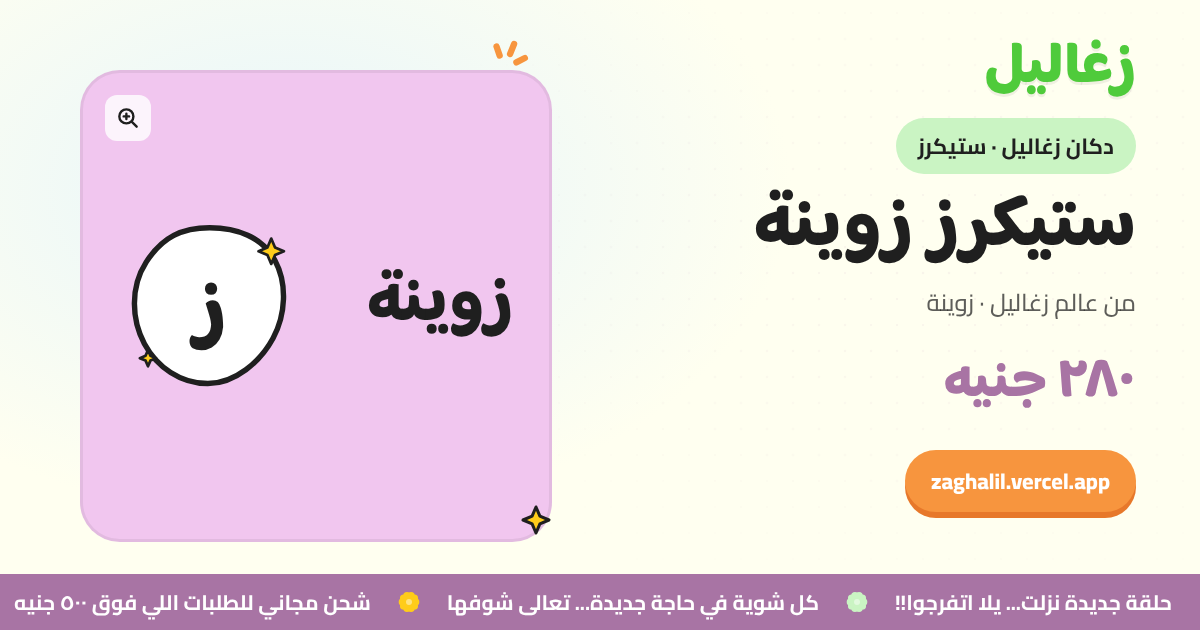
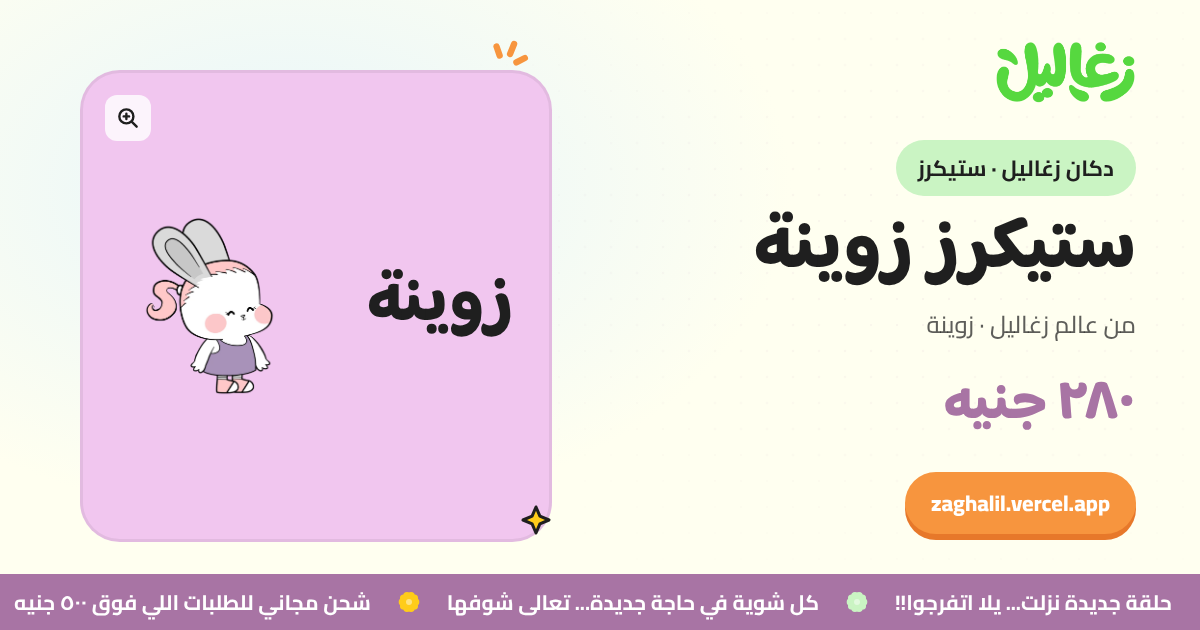
Timeline markers match the design; bunny no longer covers text on phones; OG images use the official art
- Milestone markers are the design's rounded 9-point stars in its colours,
  with the dashed spine running through their centres
- On phones and tablets the sitting bunny gets her own strip under the list
- OG previews: official hero illustration, cast lineup, sitting bunny, shop
  art and sticker photos; shop art trimmed tight

Changed region(s): [[0.6167, 0.0603, 0.9558, 0.5429], [0.74, 0.573, 0.9558, 0.8746], [0.0925, 0.3317, 0.2467, 0.6333]]

diff --git a/src/components/sections/Story.tsx b/src/components/sections/Story.tsx
@@ -5,7 +5,30 @@ import { useEffect, useRef, useState } from "react";
 import { useGo } from "@/lib/nav";
 import { story } from "@/content/site";
 import { toArabicDigits } from "@/lib/format";
-import { Button, CharacterArt, Flower, Pill, Reveal, SplitHeading } from "@/components/ui/primitives";
+import { Button, CharacterArt, Pill, Reveal, SplitHeading } from "@/components/ui/primitives";
+
+/**
+ * The design's milestone marker: Figma star (9 points, inner radius 43.6%) with its corners fully
+ * rounded — every corner is an arc tangent to the edges at their midpoints, exactly as Figma clamps it.
+ */
+const BADGE_PATH = "M23.136 7.379A1.923 1.923 0 0 1 26.864 7.379L26.864 7.379A5.168 5.168 0 0 0 34.899 10.303L34.899 10.303A1.923 1.923 0 0 1 37.755 12.699L37.755 12.699A5.168 5.168 0 0 0 42.030 20.104L42.030 20.104A1.923 1.923 0 0 1 42.677 23.776L42.677 23.776A5.168 5.168 0 0 0 41.193 32.196L41.193 32.196A1.923 1.923 0 0 1 39.329 35.425L39.329 35.425A5.168 5.168 0 0 0 32.778 40.921L32.778 40.921A1.923 1.923 0 0 1 29.275 42.196L29.275 42.196A5.168 5.168 0 0 0 20.725 42.196L20.725 42.196A1.923 1.923 0 0 1 17.222 40.921L17.222 40.921A5.168 5.168 0 0 0 10.671 35.425L10.671 35.425A1.923 1.923 0 0 1 8.807 32.196L8.807 32.196A5.168 5.168 0 0 0 7.323 23.776L7.323 23.776A1.923 1.923 0 0 1 7.970 20.104L7.970 20.104A5.168 5.168 0 0 0 12.245 12.699L12.245 12.699A1.923 1.923 0 0 1 15.101 10.303L15.101 10.303A5.168 5.168 0 0 0 23.136 7.379Z";
+
+function Badge({ color, className }: { color: string; className?: string }) {
+  return (
+    <svg viewBox="6.1 6.1 37.8 37.8" className={className} aria-hidden>
+      <path d={BADGE_PATH} fill={color} />
+    </svg>
+  );
+}
+
+/* Shared geometry so the dashed spine always runs through the marker centres. */
+const ROW = "gap-4 sm:gap-6";
+const YEAR_W = "w-[4.2rem] sm:w-[5rem]";
+const MARK = "h-9 w-9 sm:h-11 sm:w-11";
+// right offset of a marker centre = year width + gap + half the marker
+const SPINE_RIGHT = "right-[calc(4.2rem+1rem+1.125rem-1px)] sm:right-[calc(5rem+1.5rem+1.375rem-1px)]";
+const SPINE_TOP = "top-[calc(0.25rem+1.125rem)] sm:top-[calc(0.25rem+1.375rem)]";
+const DASH = "bg-[repeating-linear-gradient(to_bottom,currentColor_0_10px,transparent_10px_20px)]";
 
 export function Story() {
   const go = useGo();
@@ -72,25 +95,29 @@ function MilestoneRow({ m, progress, i, count }: { m: Milestone; progress: Motio
   const t = useTransform(progress, [start, end], [0, 1], { clamp: true });
   const yearX = useTransform(t, [0, 0.6], [60, 0]);
   const yearOpacity = useTransform(t, [0, 0.45], [0, 1]);
-  const flowerScale = useTransform(t, [0.15, 0.55, 0.75], [0, 1.25, 1]);
-  const flowerRotate = useTransform(t, [0.15, 0.75], [-160, 0]);
+  const markScale = useTransform(t, [0.15, 0.55, 0.75], [0, 1.2, 1]);
+  const markRotate = useTransform(t, [0.15, 0.75], [-120, 0]);
+  // the dashed segment down to the next marker draws itself as the next milestone arrives
+  const seg = useTransform(progress, [start + span * 0.6, start + span * 1.2], [0, 1], { clamp: true });
+  const last = i === count - 1;
   const textY = useTransform(t, [0.3, 1], [24, 0]);
   const textOpacity = useTransform(t, [0.3, 0.9], [0, 1]);
   const blur = useTransform(t, [0.3, 0.9], ["blur(6px)", "blur(0px)"]);
-  const glow = useTransform(t, [0.5, 0.8, 1], [0, 1, 0.35]);
 
   return (
-    <li className="relative flex items-start gap-4 sm:gap-6">
-      <motion.span style={{ x: yearX, opacity: yearOpacity }} className="font-display w-[4.2rem] shrink-0 text-[2.1rem] leading-none text-white sm:w-[5rem] sm:text-[2.6rem]">
+    <li className={`relative flex items-start ${ROW}`}>
+      {!last && (
+        <>
+          {/* segment from this marker to the next one (li height + the 3rem list gap) */}
+          <span aria-hidden className={`absolute ${SPINE_RIGHT} ${SPINE_TOP} h-[calc(100%+3rem)] w-[2px] text-white/25 ${DASH}`} />
+          <motion.span aria-hidden style={{ scaleY: seg }} className={`absolute ${SPINE_RIGHT} ${SPINE_TOP} h-[calc(100%+3rem)] w-[2px] origin-top text-white ${DASH}`} />
+        </>
+      )}
+      <motion.span style={{ x: yearX, opacity: yearOpacity }} className={`font-display ${YEAR_W} shrink-0 text-[2.1rem] leading-none text-white sm:text-[2.6rem]`}>
         {toArabicDigits(m.year)}
       </motion.span>
-      <motion.span style={{ scale: flowerScale, rotate: flowerRotate }} className="relative z-10 mt-1 shrink-0">
-        <motion.span
-          aria-hidden
-          style={{ opacity: glow, background: m.color }}
-          className="absolute inset-[-10px] rounded-full blur-md"
-        />
-        <Flower color={m.color} className="relative h-8 w-8" />
+      <motion.span style={{ scale: markScale, rotate: markRotate }} className="relative z-10 mt-1 shrink-0">
+        <Badge color={m.color} className={`block ${MARK}`} />
       </motion.span>
       <motion.div style={{ y: textY, opacity: textOpacity, filter: blur }} className="pt-0.5">
         <h3 className="font-display text-xl text-white sm:text-2xl">{m.title}</h3>
@@ -117,7 +144,6 @@ export function TimelineCard() {
   const settled = useMotionValue(1);
   const p = reduce ? settled : progress;
 
-  const line = useTransform(p, [0.04, 0.88], [0, 1], { clamp: true });
   const bunnyY = useTransform(p, [0, 1], [90, -10]);
   const bunnyRotate = useTransform(p, [0, 0.5, 1], [-8, 4, 0]);
   const hint = useTransform(p, [0, 0.06], [1, 0]);
@@ -125,15 +151,8 @@ export function TimelineCard() {
   return (
     <div ref={track} style={pin ? { height: `calc(${height}px + 160vh)` } : undefined} className="relative">
       <div ref={card} style={pin ? { position: "sticky", top } : undefined}>
-        <div className="grain relative overflow-hidden rounded-[2.2rem] bg-purple px-6 py-12 sm:px-12 lg:px-16 lg:py-16">
+        <div className="grain relative overflow-hidden rounded-[2.2rem] bg-purple px-6 pt-12 pb-[12.5rem] sm:px-12 sm:pb-[14rem] lg:px-16 lg:py-16">
           <div className="relative z-10 lg:w-[68%]">
-            {/* dashed spine: faint track + the part already "drawn" */}
-            <div aria-hidden className="absolute right-[5.4rem] top-4 bottom-4 w-0 border-r-2 border-dashed border-white/25 sm:right-[6.4rem]" />
-            <motion.div
-              aria-hidden
-              style={{ scaleY: line }}
-              className="absolute right-[5.4rem] top-4 bottom-4 w-0 origin-top border-r-2 border-dashed border-white sm:right-[6.4rem]"
-            />
             <ol className="relative space-y-12">
               {story.milestones.map((m, i) => (
                 <MilestoneRow key={m.year} m={m} i={i} count={story.milestones.length} progress={p} />
@@ -143,7 +162,7 @@ export function TimelineCard() {
 
           <motion.div
             style={{ y: bunnyY, rotate: bunnyRotate }}
-            className="pointer-events-none absolute bottom-0 left-4 w-[30%] max-w-[230px] origin-bottom sm:left-10 lg:left-14 lg:w-[20%]"
+            className="pointer-events-none absolute bottom-0 left-6 w-[34%] max-w-[140px] origin-bottom sm:left-10 sm:max-w-[160px] lg:left-14 lg:w-[20%] lg:max-w-[230px]"
           >
             <motion.div animate={{ rotate: [-2, 2, -2] }} transition={{ duration: 4, repeat: Infinity, ease: "easeInOut" }} className="origin-bottom">
               <CharacterArt id="zouina" pose="sitting" className="w-full" />

diff --git a/scripts/og/template.html b/scripts/og/template.html
@@ -68,6 +68,8 @@
   .ptile .txt { flex: 1; min-width: 0; direction: rtl; text-align: right; }
   .ptile .nm { font-family: var(--display); font-weight: 800; color: var(--ink); line-height: 1.05; }
   .ptile .tr { margin-top: 10px; font-weight: 700; font-size: 20px; line-height: 1.5; color: rgba(31,31,31,.7); }
+  .ptile.solo { justify-content: center; padding: 0; }
+  .ptile.solo .pic { width: 78%; filter: drop-shadow(0 14px 18px rgba(0,0,0,.14)); }
   .ptile .zoom { position: absolute; left: 22px; top: 22px; width: 46px; height: 46px; border-radius: 12px; background: rgba(255,255,255,.8); display: grid; place-items: center; }
 
   /* shared bits */
@@ -118,9 +120,21 @@ function badge(c, x, y, size) {
   </g>`;
 }
 
+/** The design's milestone marker (Figma 9-point star, corners fully rounded). */
+const MARK_PATH = "M23.136 7.379A1.923 1.923 0 0 1 26.864 7.379L26.864 7.379A5.168 5.168 0 0 0 34.899 10.303L34.899 10.303A1.923 1.923 0 0 1 37.755 12.699L37.755 12.699A5.168 5.168 0 0 0 42.030 20.104L42.030 20.104A1.923 1.923 0 0 1 42.677 23.776L42.677 23.776A5.168 5.168 0 0 0 41.193 32.196L41.193 32.196A1.923 1.923 0 0 1 39.329 35.425L39.329 35.425A5.168 5.168 0 0 0 32.778 40.921L32.778 40.921A1.923 1.923 0 0 1 29.275 42.196L29.275 42.196A5.168 5.168 0 0 0 20.725 42.196L20.725 42.196A1.923 1.923 0 0 1 17.222 40.921L17.222 40.921A5.168 5.168 0 0 0 10.671 35.425L10.671 35.425A1.923 1.923 0 0 1 8.807 32.196L8.807 32.196A5.168 5.168 0 0 0 7.323 23.776L7.323 23.776A1.923 1.923 0 0 1 7.970 20.104L7.970 20.104A5.168 5.168 0 0 0 12.245 12.699L12.245 12.699A1.923 1.923 0 0 1 15.101 10.303L15.101 10.303A5.168 5.168 0 0 0 23.136 7.379Z";
+const mark = (color, x, y, size) =>
+  `<svg x="${x}" y="${y}" width="${size}" height="${size}" viewBox="6.1 6.1 37.8 37.8"><path d="${MARK_PATH}" fill="${color}"/></svg>`;
+
 /* ───────── art per variant ───────── */
 const art = {
   home(d) {
+    // the official hero illustration (characters on the swing), when exported
+    if (d.heroArt) {
+      return `<svg width="560" height="574" viewBox="0 0 560 574">
+        <image href="${d.heroArt}" x="0" y="40" width="560" height="500" preserveAspectRatio="xMidYMid meet"/>
+        ${spark(70, 70, 1, -20)}${spark(505, 140, 0.8, 25, "#F7953E")}${star4(500, 500, 12)}
+      </svg>`;
+    }
     const seats = d.swing;
     const half = 190, cx = 262, plankY = 400;
     const rope = (x) => `<rect x="${x - 7}" y="-20" width="14" height="${plankY + 26}" fill="url(#rope)" stroke="${INK}" stroke-width="3.5"/>`;
@@ -165,7 +179,9 @@ const art = {
       <path d="M425 120v100M350 170h150" stroke="#E2A35A" stroke-width="7"/>
       <rect x="24" y="396" width="512" height="120" fill="#E8B477"/><rect x="24" y="388" width="512" height="10" fill="#E2A35A"/>
       <rect x="24" y="96" width="512" height="420" rx="36" fill="none" stroke="rgba(0,0,0,.08)" stroke-width="3"/>
-      ${pos.map((p) => badge(p.c, p.x, p.y, size)).join("")}
+      ${d.castArt
+        ? `<image href="${d.castArt}" x="24" y="280" width="512" height="236" preserveAspectRatio="xMidYMax meet"/>`
+        : pos.map((p) => badge(p.c, p.x, p.y, size)).join("")}
       ${spark(70, 80, 1, -20)}${spark(500, 70, .8, 20, "#F7953E")}
     </svg>`;
   },
@@ -175,7 +191,7 @@ const art = {
       const y = 170 + i * 92;
       return `<g>
         <text x="500" y="${y + 13}" text-anchor="end" font-family="Rabie, Baloo" font-weight="800" font-size="40" fill="#fff">${ar(m.year)}</text>
-        <g transform="translate(${381} ${y - 13})">${flower(m.color, 30).replace("<svg", "<svg x='0' y='0'")}</g>
+        ${mark(m.color, 380, y - 16, 32)}
         <text x="364" y="${y + 6}" text-anchor="end" font-family="Rabie, Baloo" font-weight="800" font-size="24" fill="#fff">${esc(m.title)}</text>
         <rect x="${364 - 200}" y="${y + 22}" width="200" height="8" rx="4" fill="rgba(255,255,255,.28)"/>
       </g>`;
@@ -184,7 +200,9 @@ const art = {
       <rect x="24" y="96" width="512" height="420" rx="40" fill="#A874A4"/>
       <path d="M396 150V470" stroke="rgba(255,255,255,.6)" stroke-width="3" stroke-dasharray="7 7"/>
       ${rows}
-      <g transform="translate(40 392)">${badge(d.cast.find((c) => c.id === "zouina") || d.cast[0], 0, 0, 112)}</g>
+      ${d.bunny
+        ? `<image href="${d.bunny}" x="34" y="352" width="128" height="164" preserveAspectRatio="xMidYMax meet"/>`
+        : `<g transform="translate(40 392)">${badge(d.cast.find((c) => c.id === "zouina") || d.cast[0], 0, 0, 112)}</g>`}
       ${spark(80, 80, 1, -20)}${star4(512, 104, 14)}
     </svg>`;
   },
@@ -200,7 +218,9 @@ const art = {
     return `<svg width="560" height="574" viewBox="0 0 560 574">
       <rect x="40" y="100" width="480" height="412" rx="38" fill="#D6ECF2"/>
       <path d="M40 470h480v4a38 38 0 0 1-38 38H78a38 38 0 0 1-38-38Z" fill="#A7D9EC"/>
-      ${card(fan[0], 180, 300, -14, "#F2A3A0")}${card(fan[1], 380, 300, 14, "#CDA6E8")}${card(fan[2], 280, 280, 0, "#A7D9EC")}
+      ${d.shopArt
+        ? `<image href="${d.shopArt}" x="56" y="140" width="448" height="300" preserveAspectRatio="xMidYMid meet"/>`
+        : card(fan[0], 180, 300, -14, "#F2A3A0") + card(fan[1], 380, 300, 14, "#CDA6E8") + card(fan[2], 280, 280, 0, "#A7D9EC")}
       ${spark(84, 92, 1, -20)}${spark(492, 96, .8, 22, "#F7953E")}${star4(488, 470, 13)}
     </svg>`;
   },
@@ -211,6 +231,13 @@ const art = {
     const pic = c.img
       ? `<img src="${c.img}" alt="">`
       : `<svg viewBox="0 0 200 200">${badge({ ...c, img: null }, 0, 0, 200)}</svg>`;
+    if (d.product.photo) {
+      return `<div class="ptile solo" style="background:${c.tile}">
+        <div class="zoom"><svg width="26" height="26" viewBox="0 0 24 24"><circle cx="10.5" cy="10.5" r="6.5" fill="none" stroke="${INK}" stroke-width="2.2"/><path d="m20 20-4.4-4.4M10.5 8v5M8 10.5h5" stroke="${INK}" stroke-width="2.2" stroke-linecap="round"/></svg></div>
+        <div class="pic"><img src="${d.product.photo}" alt=""></div>
+      </div>
+      <svg width="560" height="574" viewBox="0 0 560 574" style="position:absolute;inset:0;pointer-events:none">${spark(470, 64, .9, 22, "#F7953E")}${star4(500, 520, 13)}</svg>`;
+    }
     return `<div class="ptile" style="background:${c.tile}">
         <div class="zoom"><svg width="26" height="26" viewBox="0 0 24 24"><circle cx="10.5" cy="10.5" r="6.5" fill="none" stroke="${INK}" stroke-width="2.2"/><path d="m20 20-4.4-4.4M10.5 8v5M8 10.5h5" stroke="${INK}" stroke-width="2.2" stroke-linecap="round"/></svg></div>
         <div class="pic">${pic}</div>

diff --git a/src/content/site.ts b/src/content/site.ts
@@ -80,10 +80,10 @@ export const story = {
     body: "تقديم محتوى ممتع وآمن وتجارب إبداعية تجعل الإنترنت مكانًا أكثر إشراقًا، وتمنح جمهورنا سببًا جديدًا للابتسام.",
   },
   milestones: [
-    { year: 2021, title: "أول رسمة على الورق", body: "زغلول كان أول شخصية ترسم، بهدف بسيط: نخلق صحاب جدد للأطفال المصريين.", color: "#F8A88E" },
-    { year: 2022, title: "اكتمال العالم", body: "أوتية و السيد بصل اخضر انضموا للعيلة، وبدأنا نبني عالم زغاليل بكل تفاصيله.", color: "#D6E07A" },
-    { year: 2024, title: "أول حلقة وصلت لمليون مشاهدة", body: "بدأنا نوصل لبيوت كتير، والعيلة المصرية رحبت بزغاليل بحب كبير.", color: "#F2B6E4" },
-    { year: 2026, title: "عالم زغاليل يفتح أبوابه", body: "دلوقتي بقى عندنا منتجات، شراكات، وتجارب جديدة كل شهر.", color: "#FFCC1A" },
+    { year: 2021, title: "أول رسمة على الورق", body: "زغلول كان أول شخصية ترسم، بهدف بسيط: نخلق صحاب جدد للأطفال المصريين.", color: "#F1A79B" },
+    { year: 2022, title: "اكتمال العالم", body: "أوتية و السيد بصل اخضر انضموا للعيلة، وبدأنا نبني عالم زغاليل بكل تفاصيله.", color: "#DCDD83" },
+    { year: 2024, title: "أول حلقة وصلت لمليون مشاهدة", body: "بدأنا نوصل لبيوت كتير، والعيلة المصرية رحبت بزغاليل بحب كبير.", color: "#F4C1F3" },
+    { year: 2026, title: "عالم زغاليل يفتح أبوابه", body: "دلوقتي بقى عندنا منتجات، شراكات، وتجارب جديدة كل شهر.", color: "#FFC700" },
   ],
 };
 
